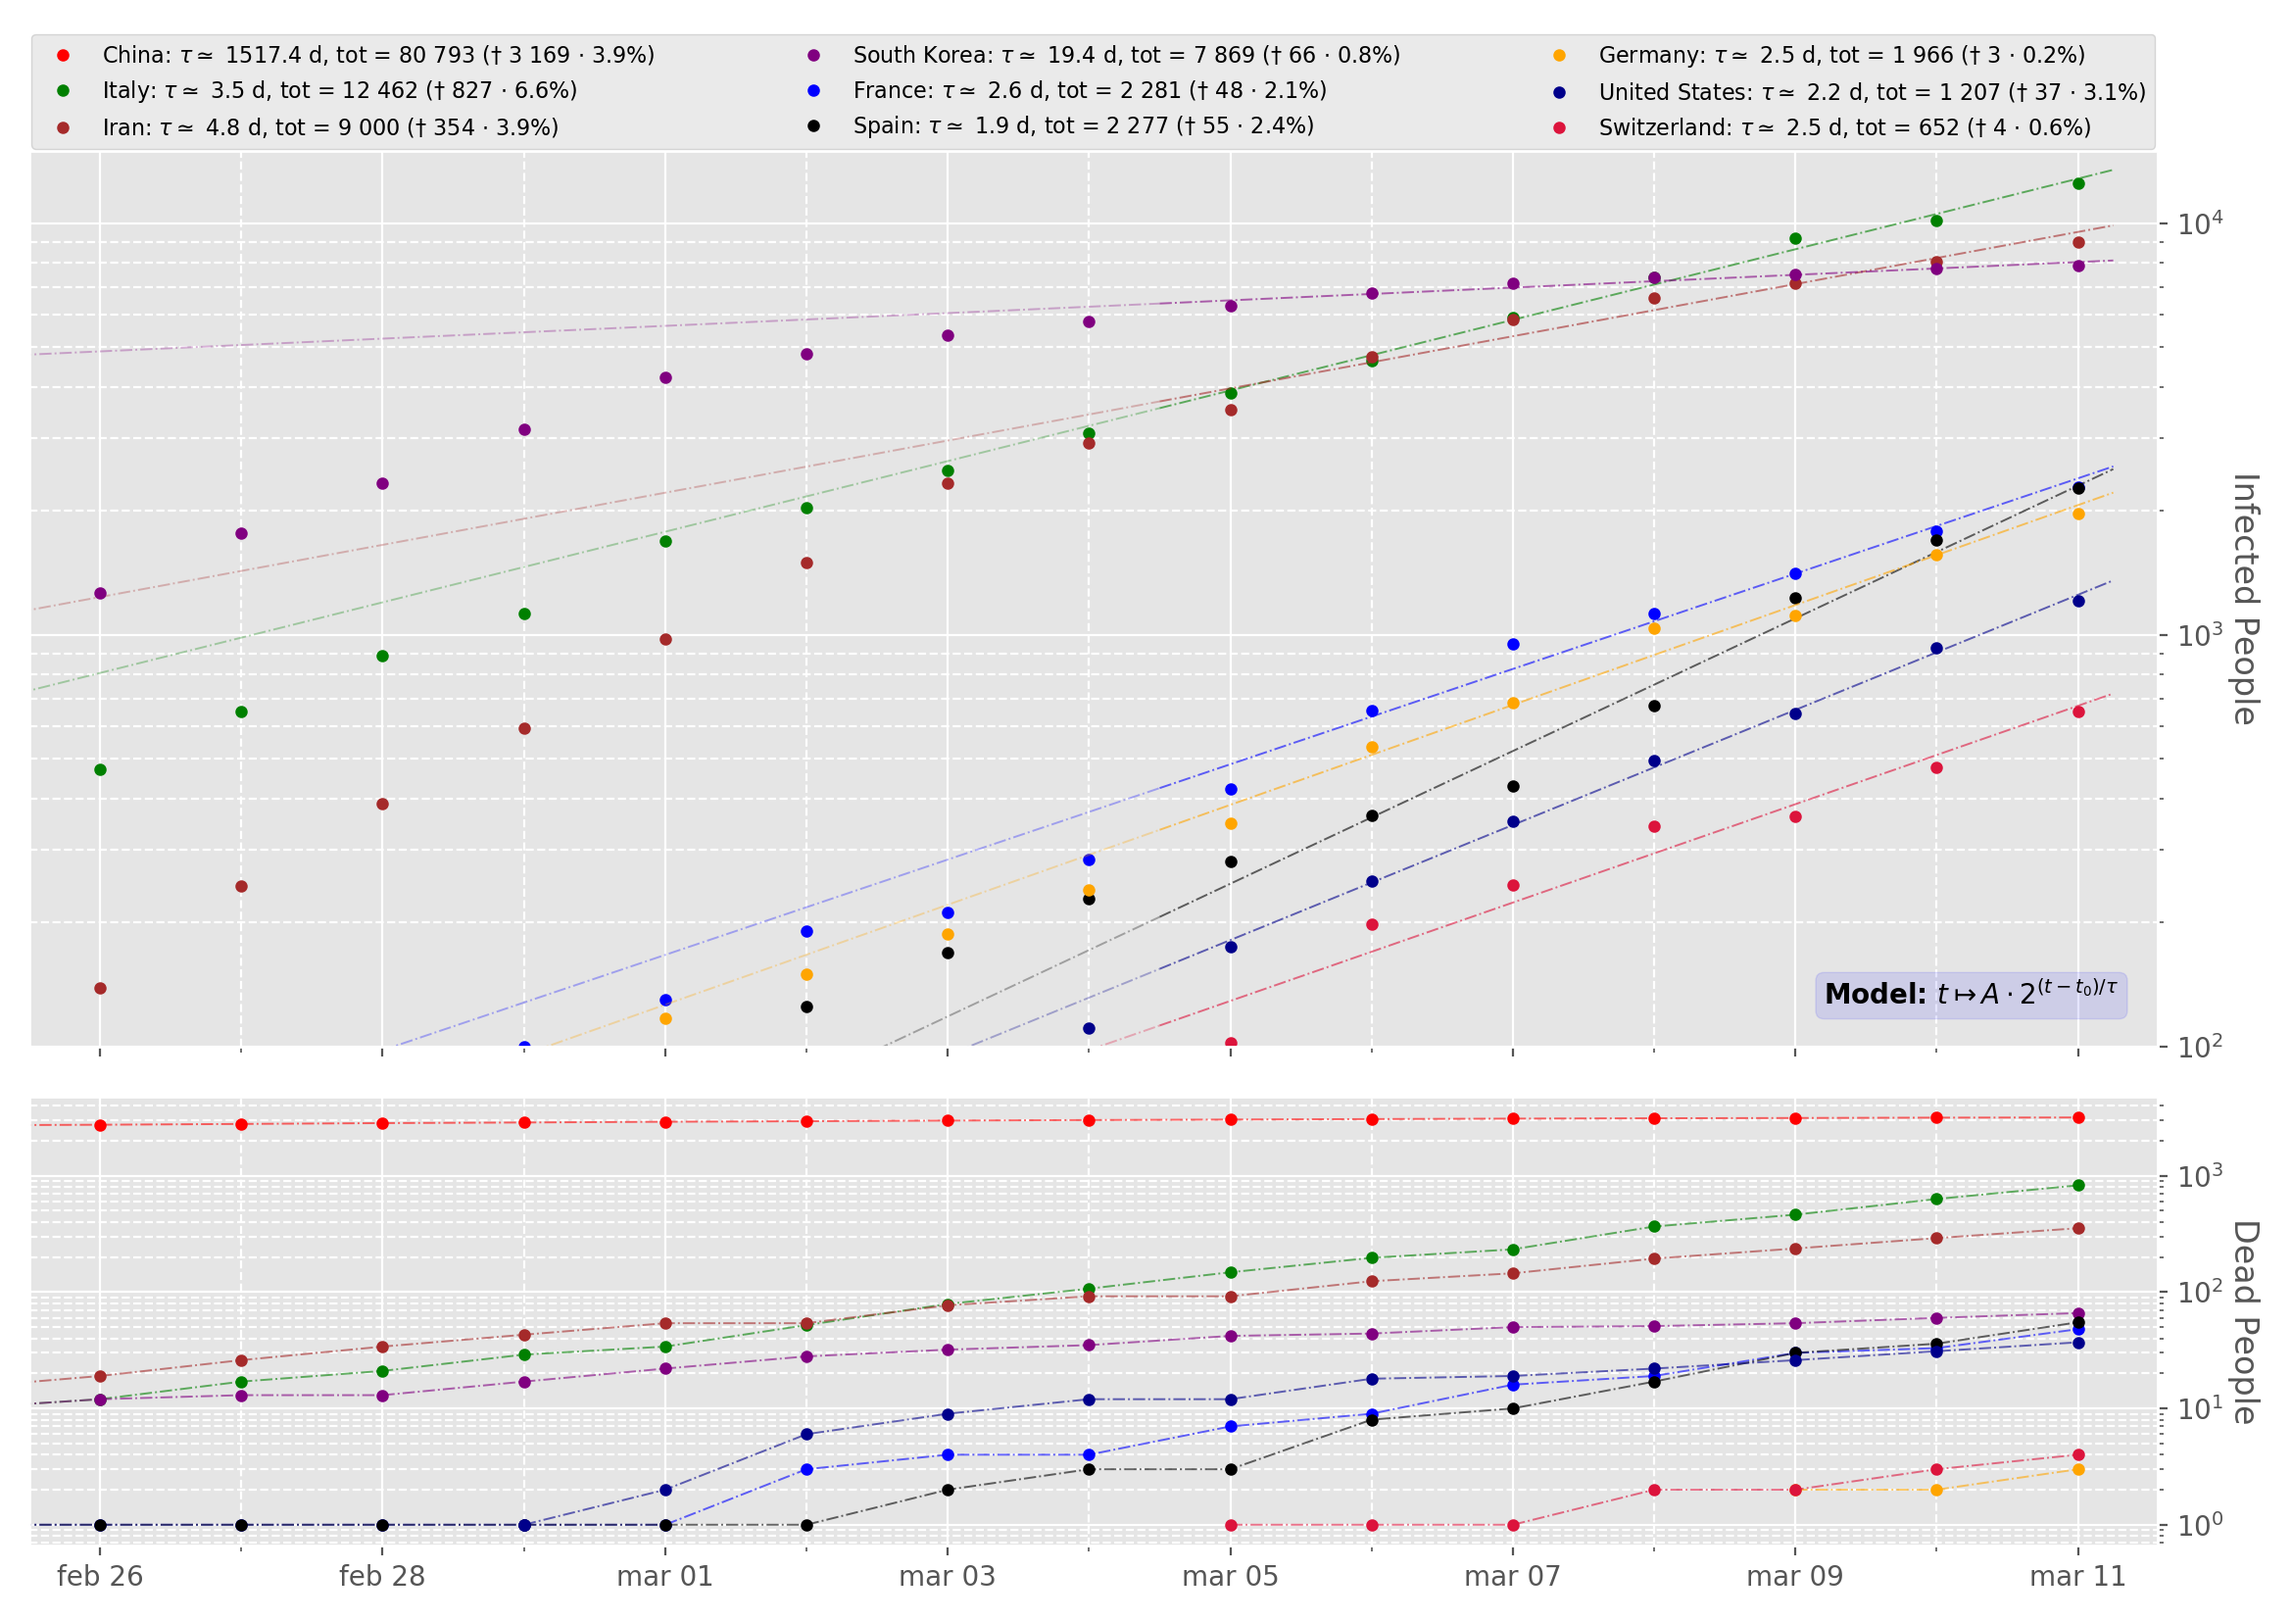
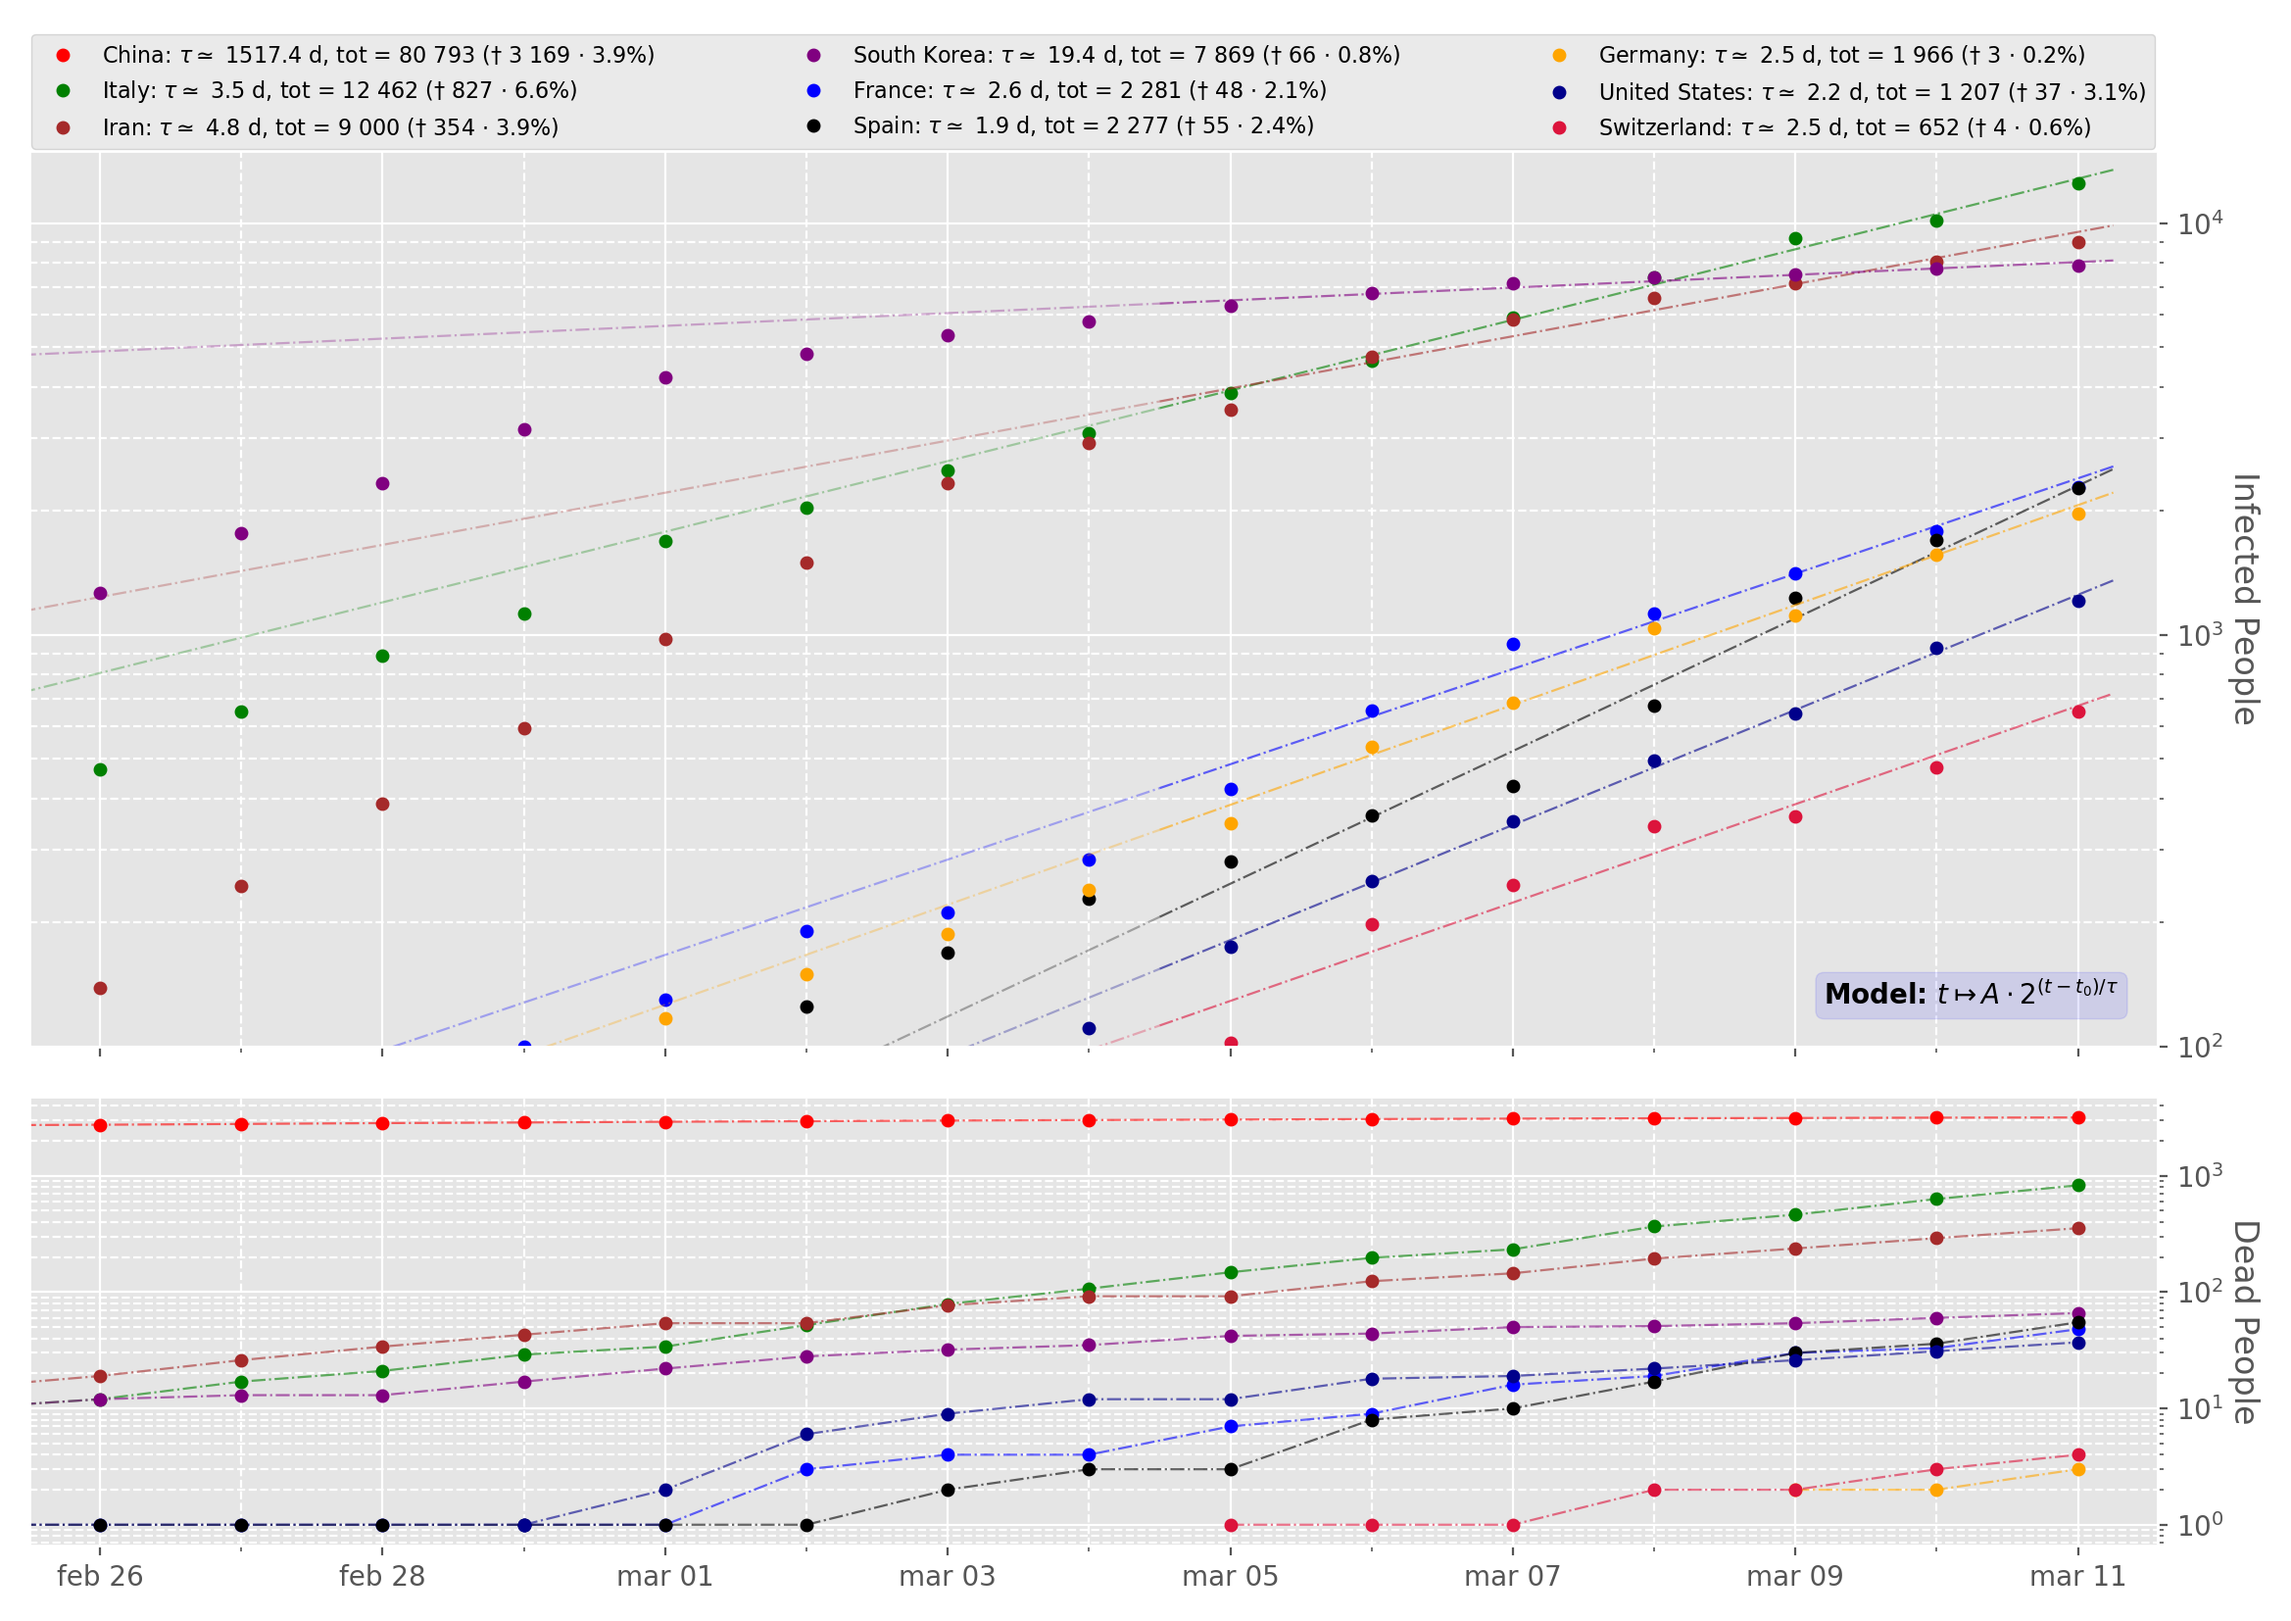
minor commit

diff --git a/Coronavirus/coronavirus.py b/Coronavirus/coronavirus.py
@@ -110,16 +110,16 @@ for i in country_ds.index:
         df["death"].values[-1]/df["count"].values[-1]*100
     )
     ax1.plot(df.index, df["count"].values, ".",
-             color=country_ds["color"].iloc[i], label=label, markersize=7)
+             color=country_ds["color"].iloc[i], label=label, markersize=8)
     ax1.plot(d1, 2**(func(t1, *param)), "-.", alpha=0.6,
-             color=country_ds["color"].iloc[i], linewidth=0.7)
+             color=country_ds["color"].iloc[i], linewidth=0.8)
     ax1.plot(d2, 2**(func(t2, *param)), "-.", alpha=0.3,
-             color=country_ds["color"].iloc[i], linewidth=0.7)
+             color=country_ds["color"].iloc[i], linewidth=0.8)
 
     ax2.plot(df.index, df["death"].values, ".",
-             color=country_ds["color"].iloc[i], markersize=7)
+             color=country_ds["color"].iloc[i], markersize=8)
     ax2.plot(df.index, df["death"].values, "-.",
-             color=country_ds["color"].iloc[i], alpha=0.6, linewidth=0.7)
+             color=country_ds["color"].iloc[i], alpha=0.6, linewidth=0.8)
 
 ax1.text(0.982, 0.04, r"Model: $t \mapsto A\cdot 2^{(t-t_0)/\tau}$",
          size=10, ha="right", va="bottom", weight="bold", clip_on=True,
